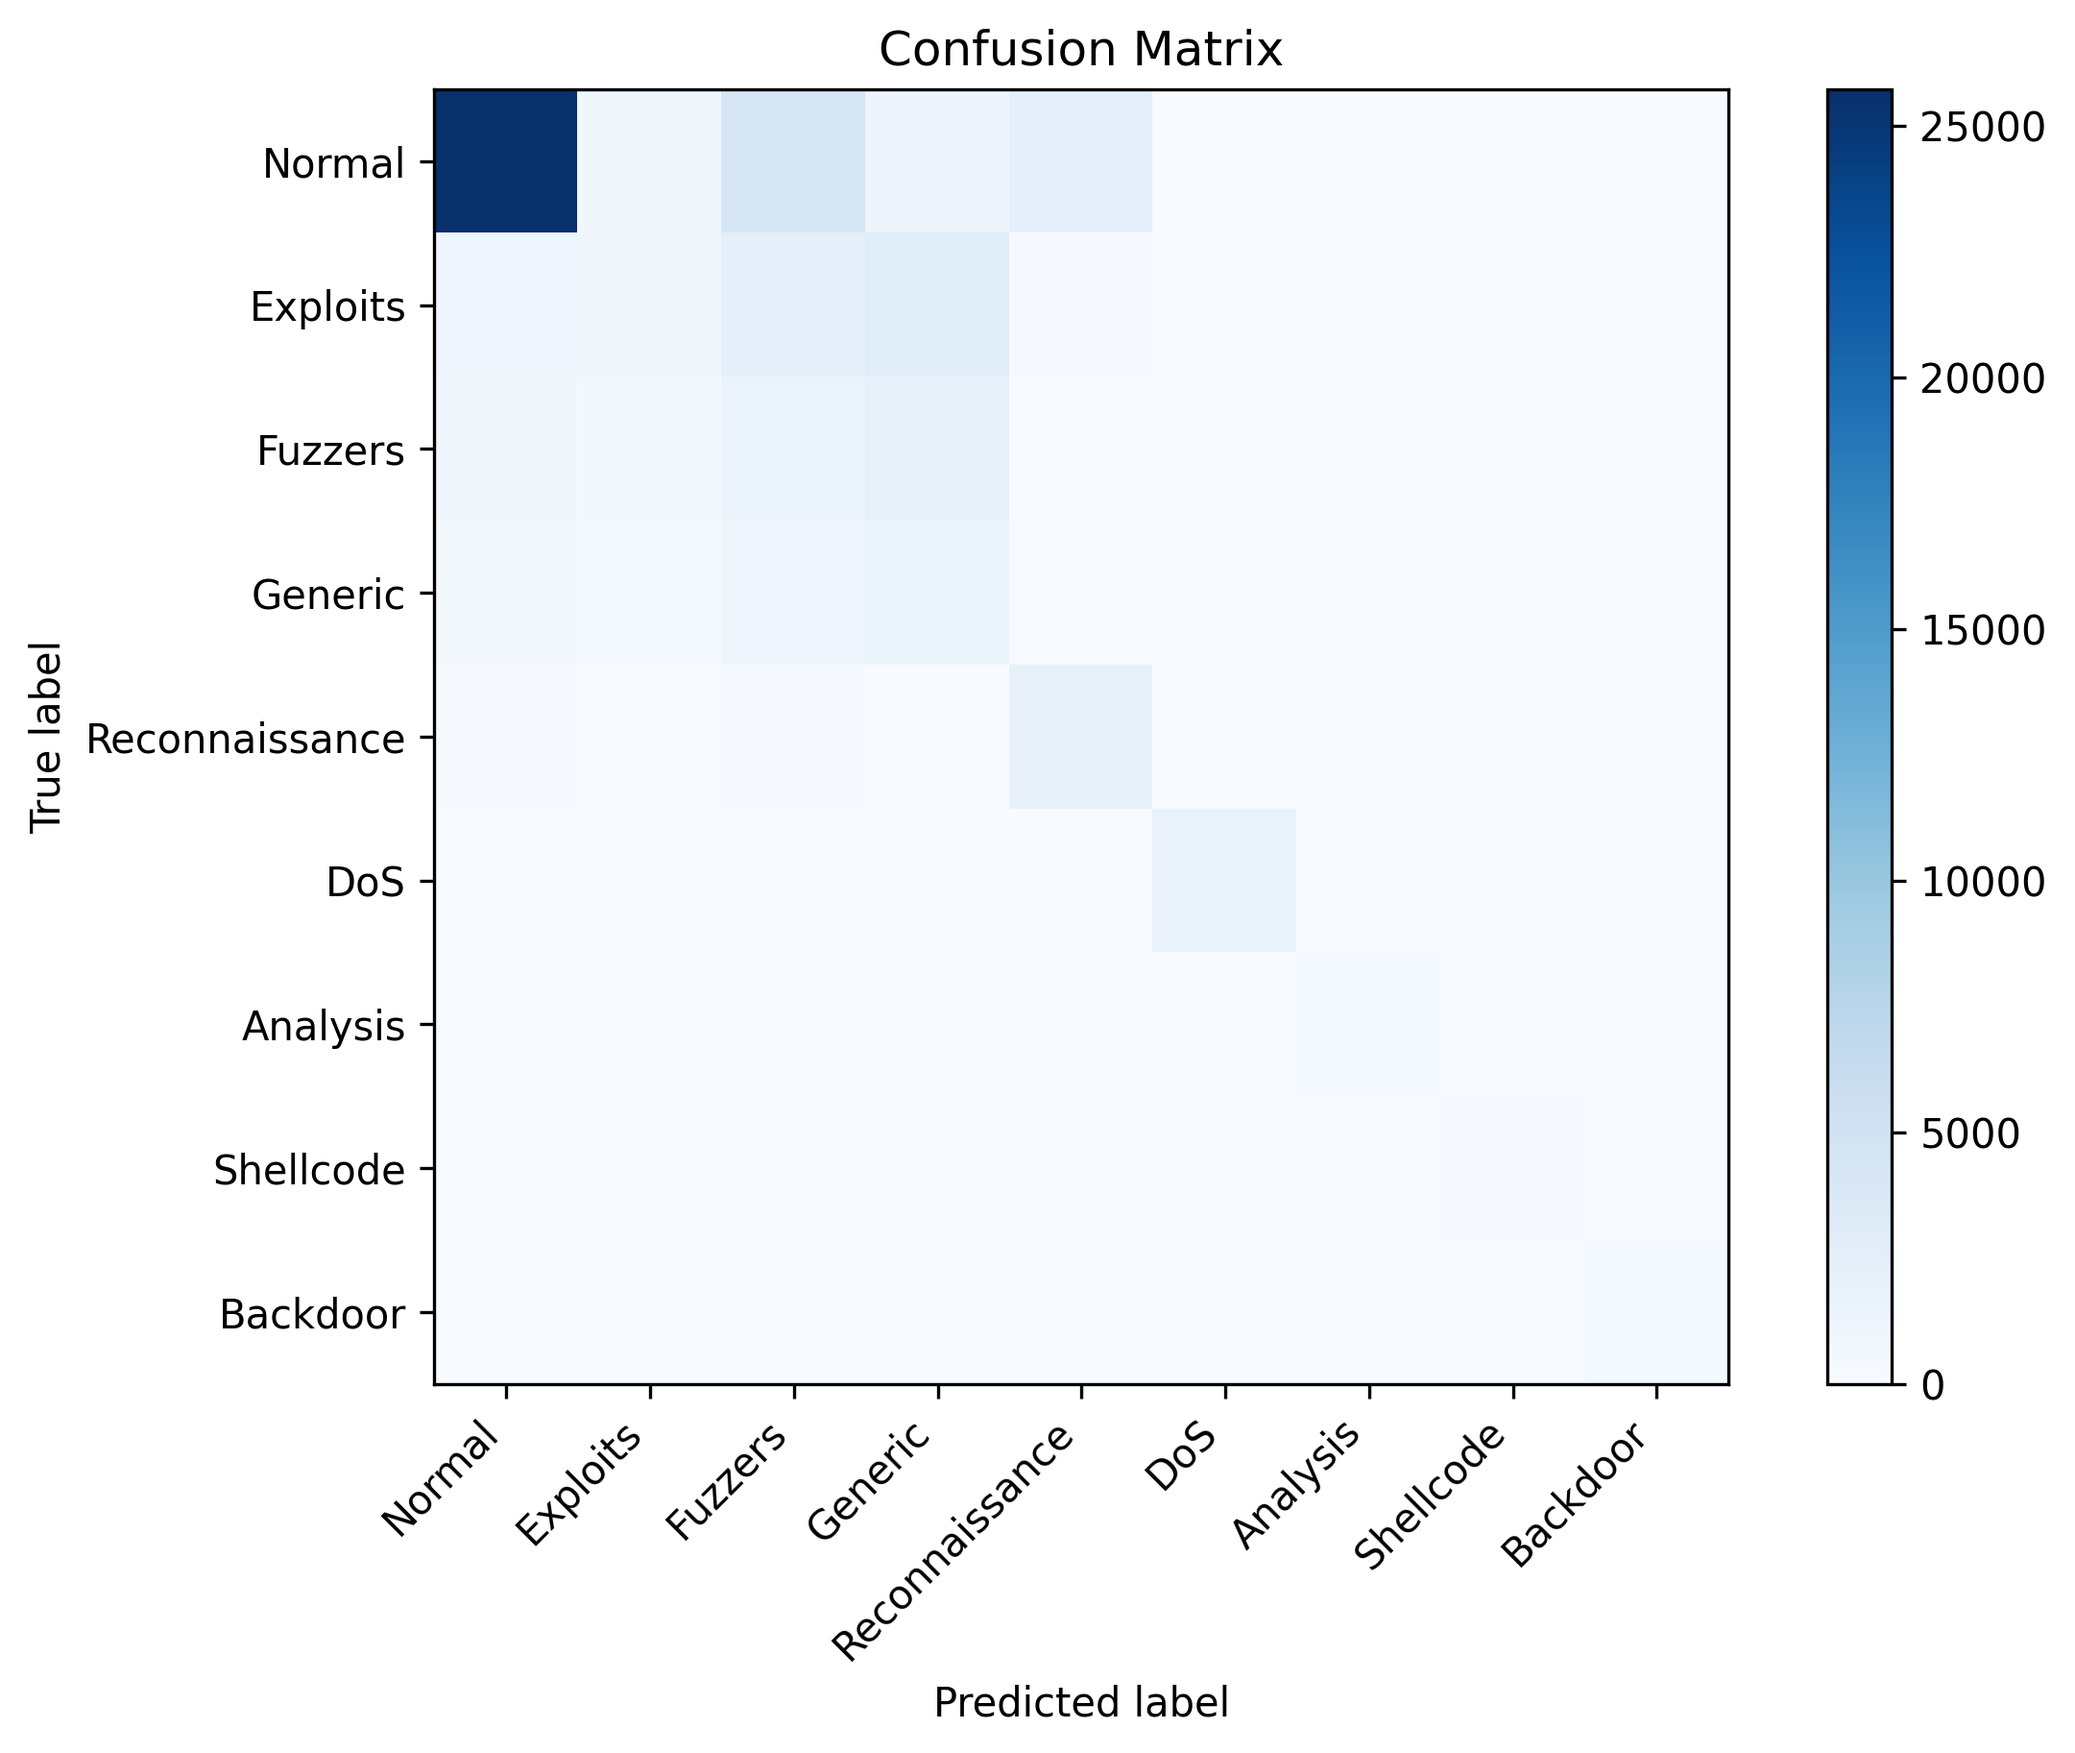
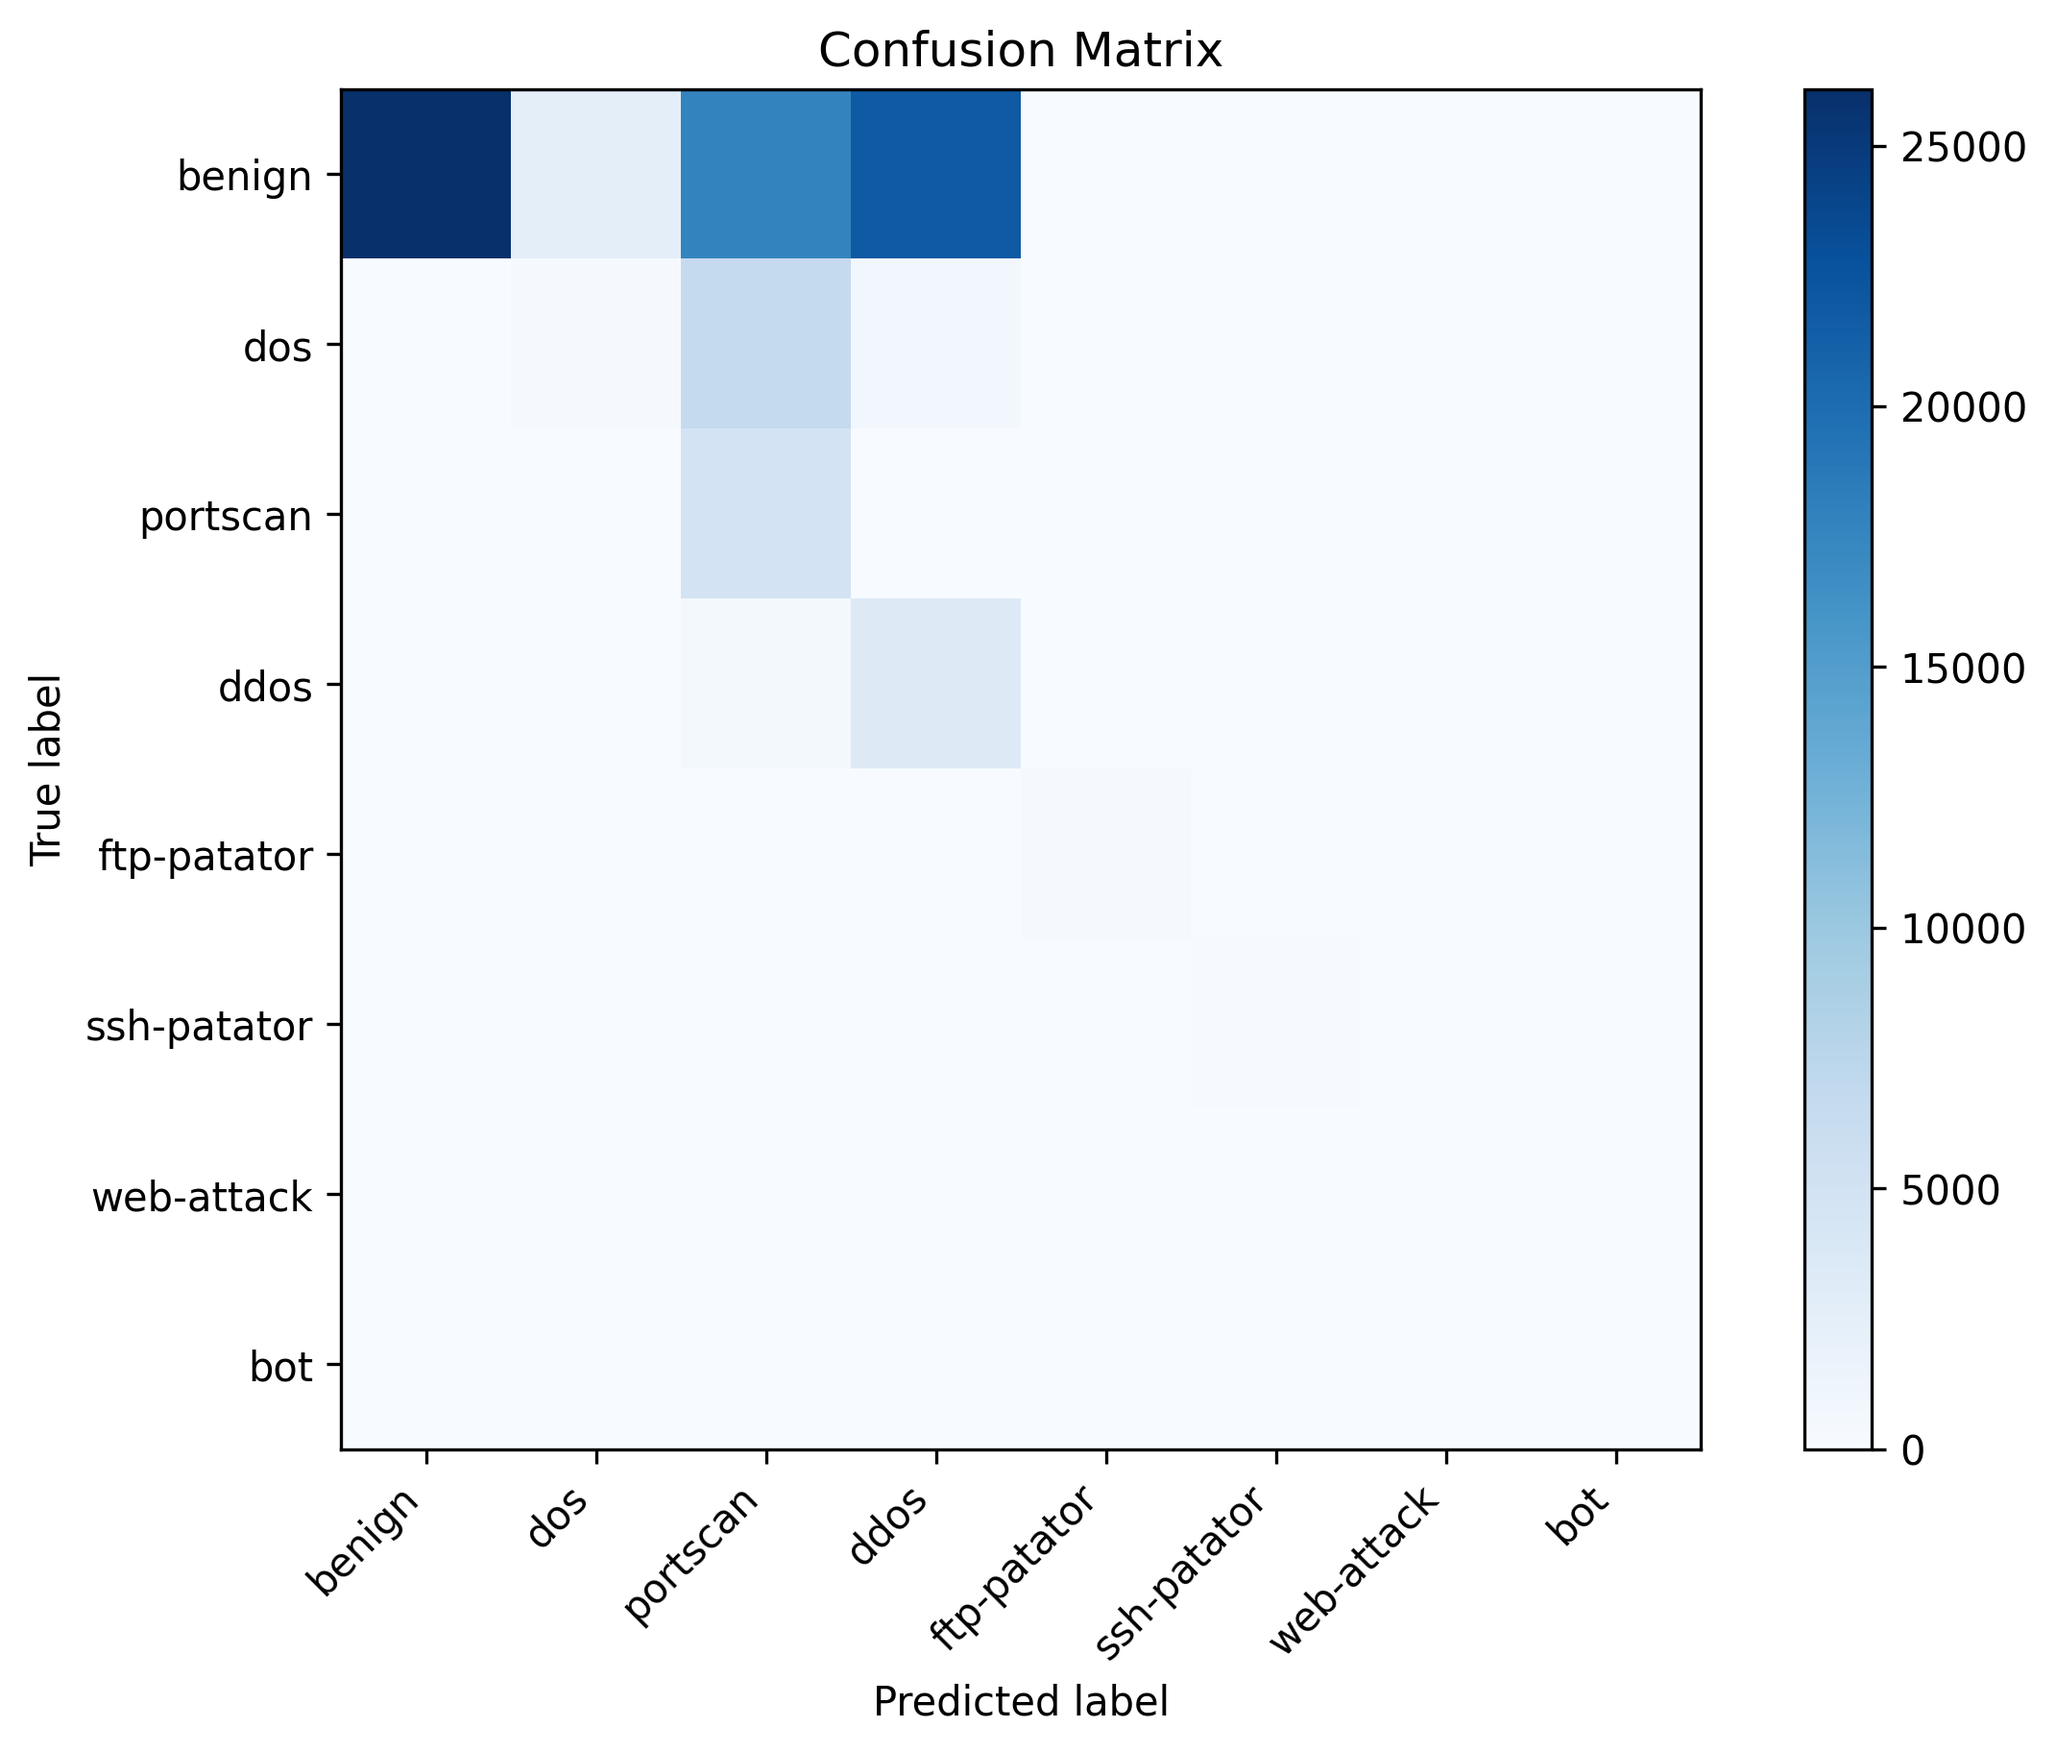
third batch of ER code reorganization - saving

diff --git a/src/utils.py b/src/utils.py
@@ -8,16 +8,10 @@ from pathlib import Path
 
 def save_training_results(dataset_name, strategy_name, attack_pattern, accuracy_matrix, accuracy_attack_matrix,
     avg_acc, avg_attack_acc, forgetting_measure,forgetting_attack, json_path):
-    
-    results_dir = Path("json_path") 
-    results_dir.mkdir(parents=True, exist_ok=True)
 
-    pattern_str = "-".join(map(str, attack_pattern))
+    output_name = f'{dataset_name}_{strategy_name}_{attack_pattern}.json'
 
-    output_name = f'{dataset_name}{strategy_name}{pattern_str}.json'
-
-    file_path = results_dir / output_name
-
+    file_path = f"{json_path}/{output_name}"
 
     results = {
             "dataset": dataset_name,
